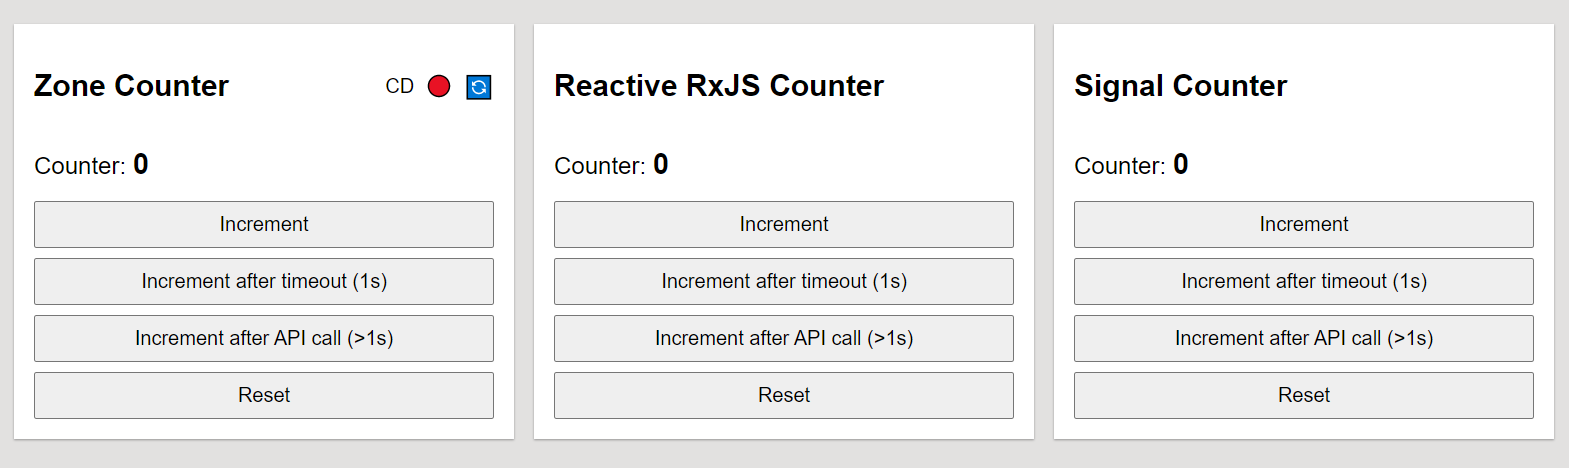
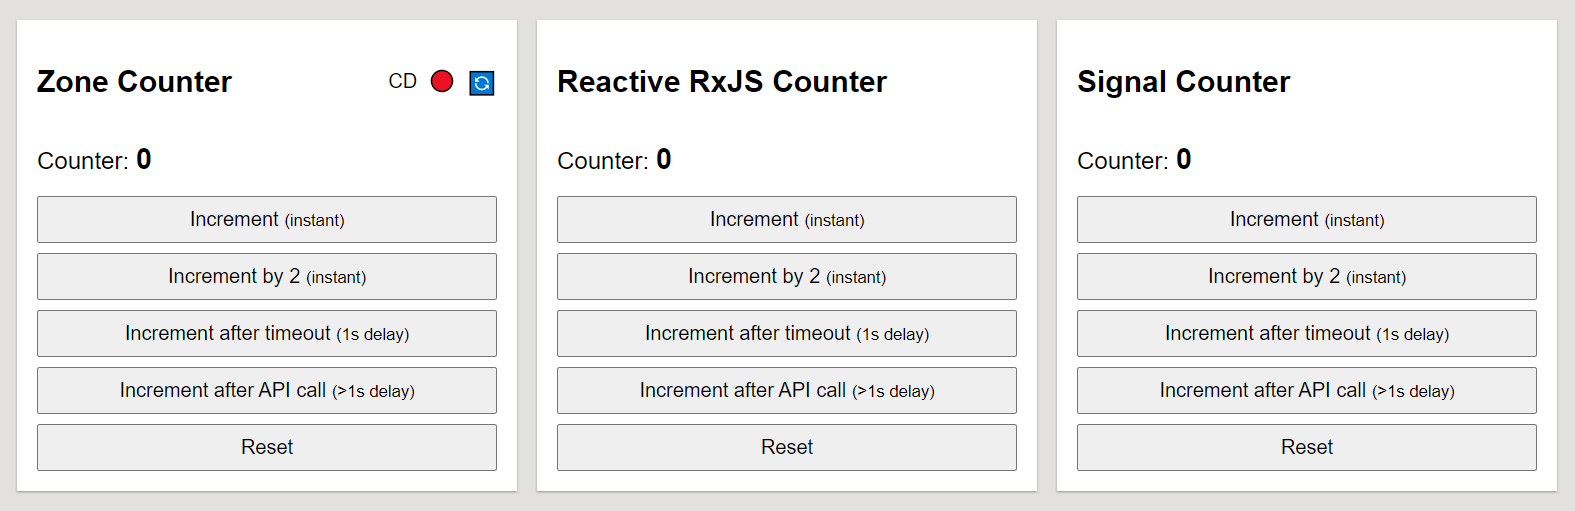
add increment by two

diff --git a/src/app/zone-counter/zone-counter.component.html b/src/app/zone-counter/zone-counter.component.html
@@ -17,12 +17,15 @@
 </div>
 
 <div class="actions">
-  <button (click)="increment()">Increment</button>
+  <button (click)="increment()">Increment <small>(instant)</small></button>
+  <button (click)="incrementByTwo()">
+    Increment by 2 <small>(instant)</small>
+  </button>
   <button (click)="incrementAfterTimeout()">
-    Increment after timeout ({{ delayTime / 1000 }}s)
+    Increment after timeout <small>({{ delayTime / 1000 }}s delay)</small>
   </button>
   <button (click)="incrementAfterAPICall()">
-    Increment after API call (>{{ delayTime / 1000 }}s)
+    Increment after API call <small>(>{{ delayTime / 1000 }}s delay)</small>
   </button>
   <button (click)="reset()">Reset</button>
 </div>

diff --git a/src/app/rxjs-counter/rxjs-counter.component.html b/src/app/rxjs-counter/rxjs-counter.component.html
@@ -5,12 +5,15 @@
 </div>
 
 <div class="actions">
-  <button (click)="increment()">Increment</button>
+  <button (click)="increment()">Increment <small>(instant)</small></button>
+  <button (click)="incrementByTwo()">
+    Increment by 2 <small>(instant)</small>
+  </button>
   <button (click)="incrementAfterTimeout()">
-    Increment after timeout ({{ delayTime / 1000 }}s)
+    Increment after timeout <small>({{ delayTime / 1000 }}s delay)</small>
   </button>
   <button (click)="incrementAfterAPICall()">
-    Increment after API call (>{{ delayTime / 1000 }}s)
+    Increment after API call <small>(>{{ delayTime / 1000 }}s delay)</small>
   </button>
   <button (click)="reset()">Reset</button>
 </div>

diff --git a/src/app/signal-counter/signal-counter.component.html b/src/app/signal-counter/signal-counter.component.html
@@ -5,12 +5,15 @@
 </div>
 
 <div class="actions">
-  <button (click)="increment()">Increment</button>
+  <button (click)="increment()">Increment <small>(instant)</small></button>
+  <button (click)="incrementByTwo()">
+    Increment by 2 <small>(instant)</small>
+  </button>
   <button (click)="incrementAfterTimeout()">
-    Increment after timeout ({{ delayTime / 1000 }}s)
+    Increment after timeout <small>({{ delayTime / 1000 }}s delay)</small>
   </button>
   <button (click)="incrementAfterAPICall()">
-    Increment after API call (>{{ delayTime / 1000 }}s)
+    Increment after API call <small>(>{{ delayTime / 1000 }}s delay)</small>
   </button>
   <button (click)="reset()">Reset</button>
 </div>

diff --git a/src/app/zone-counter/zone-counter.component.ts b/src/app/zone-counter/zone-counter.component.ts
@@ -35,6 +35,13 @@ export class ZoneCounterComponent {
     if (this.manualChangeDetectionEnabled) this.cdr.markForCheck();
   }
 
+  public incrementByTwo() {
+    this.counter += 2;
+    log(this, 'increment', this.counter);
+
+    if (this.manualChangeDetectionEnabled) this.cdr.markForCheck();
+  }
+
   public incrementAfterTimeout() {
     setTimeout(() => {
       this.counter += 1;

diff --git a/src/app/rxjs-counter/rxjs-counter.component.ts b/src/app/rxjs-counter/rxjs-counter.component.ts
@@ -45,6 +45,11 @@ export class RxJsCounterComponent {
     this.counter$.pipe(take(1)).subscribe((n) => log(this, 'increment', n));
   }
 
+  public incrementByTwo() {
+    this.counterIncrement$.next(2);
+    this.counter$.pipe(take(1)).subscribe((n) => log(this, 'increment', n));
+  }
+
   public incrementAfterTimeout() {
     setTimeout(() => {
       this.counterIncrement$.next(1);

diff --git a/src/app/signal-counter/signal-counter.component.ts b/src/app/signal-counter/signal-counter.component.ts
@@ -26,6 +26,11 @@ export class SignalCounterComponent {
     log(this, 'increment', this.counter());
   }
 
+  public incrementByTwo() {
+    this.counter.update((c) => c + 2);
+    log(this, 'increment', this.counter());
+  }
+
   public incrementAfterTimeout() {
     setTimeout(() => {
       this.counter.update((c) => c + 1);
